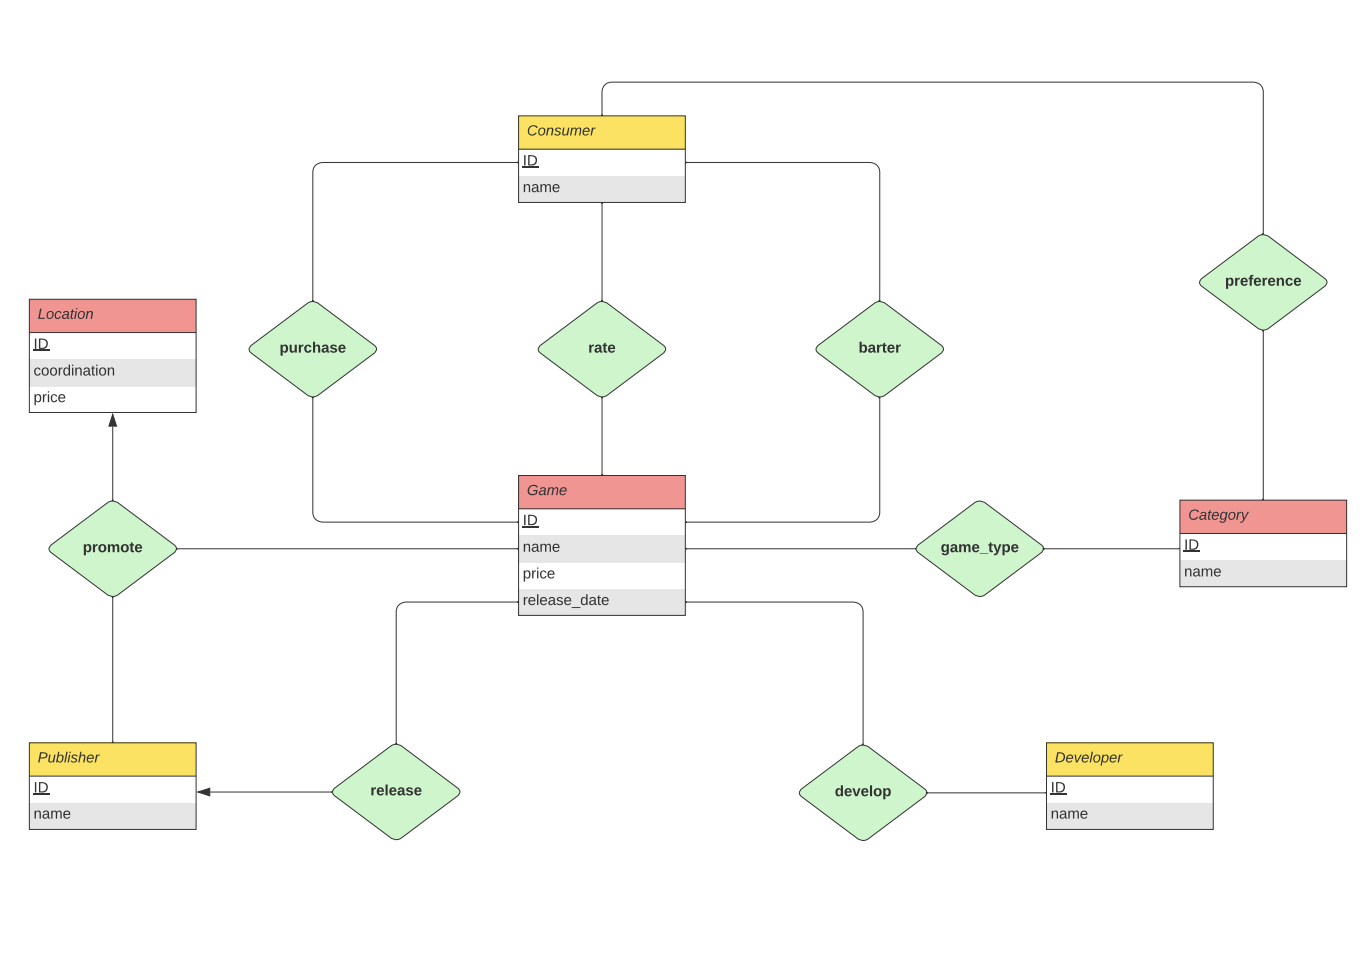
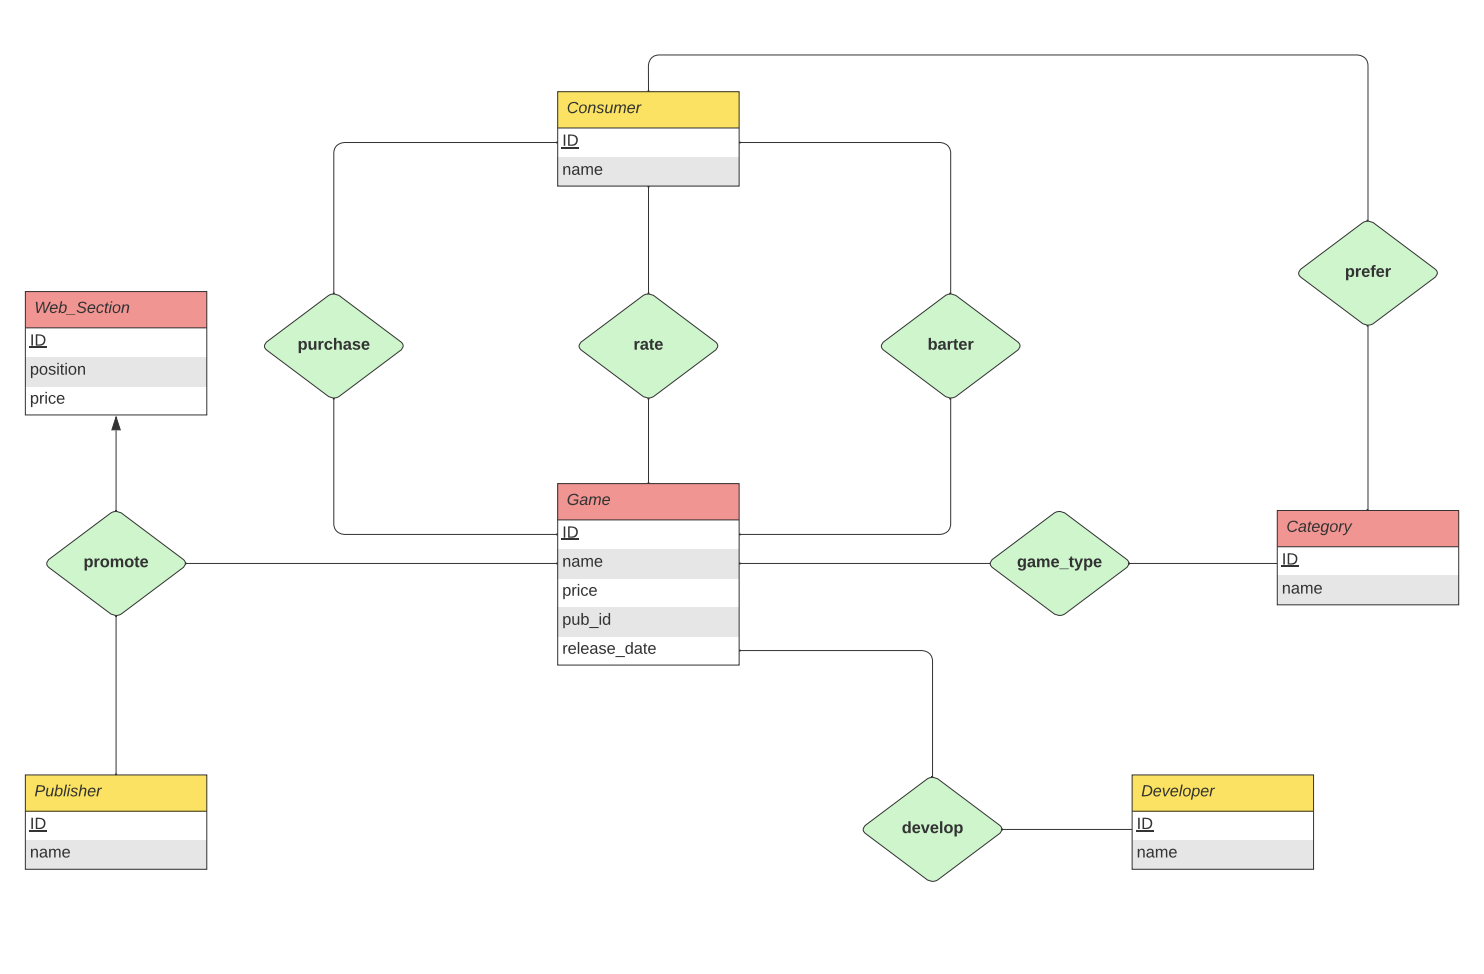
update abstract draft

diff --git a/README.md b/README.md
@@ -22,7 +22,7 @@ Our team consists of the following members, listed in the table below (the team 
 | 120090234  | 王森         | 120090234@link.cuhk.edu.cn|
 | 120090320  | 尹无非       | 120090320@link.cuhk.edu.cn|
 | 120090225  | 郑家豪         | 120090225@link.cuhk.edu.cn  |
-| 123010249  | 李子涵         | noah_822@163.com|
+| 120090188 | 李子涵         | noah_822@163.com|
 | 119010423  | 章辰舸        | 1418457284@qq.com         |
 ## Project Specification
 
@@ -56,9 +56,9 @@ $\bullet$ Backend
 
 ## Project Abstract
 
-#### Overview
+### Overview
 
-In this project, we hope to implement an advanced game distribution platform, where both the player, or say the consumer, and the saler, or say the game publisher can get involved.
+In this project, we hope to implement an advanced game distribution platform, where both the consumer, or say the player, and the saler, or say the game publisher can get involved.
 
 As a player, you can either purchase a game like you normally do on any game platform or barter for a game. Bartering is a new concept we try to introduce to our platform. One possible scenario where you may want to barter for a game is you would like to exchange a game, which you no longer want to play, for another game you interested in with somebody else.  Players can put the game to exchange and their wishlist on the platform, and then wait for others to make the deal.
 
@@ -77,6 +77,8 @@ $\vartriangleright$   **game**: table contains info of any game
       $\bullet$  name: name of the game
 
       $\bullet$  price: price of a game in US dollar
+
+      $\bullet$  pub_id: ID of the game publisher 
 
       $\bullet$  release_date: date when a game is offcially distributed, in format "DD MM YYYY"
 
@@ -120,15 +122,15 @@ $\vartriangleright$  **purchase**: table of any purchase of game a consumer ever
 
       $\bullet$ date: date the purchase was made, in format "DD MM YYYY"
 
-$\vartriangleright$  **rate**:
+$\vartriangleright$  **rate**: table of rating record of a consumer
 
-      $\bullet$  <ins>con_id</ins>
+      $\bullet$  <ins>con_id</ins>: ID of the consumer who rates the game
 
-      $\bullet$ <ins>game_id</ins>
+      $\bullet$ <ins>game_id</ins>: ID of the game rated
 
-      $\bullet$ score: 
+      $\bullet$ score: rating score, ranging from 0 to 5
 
-$\vartriangleright$  **barter**
+$\vartriangleright$  **barter**: table of game bartering records
 
       $\bullet$  <ins>con_id</ins>: ID of the consumer who wants to barter
 
@@ -136,49 +138,41 @@ $\vartriangleright$  **barter**
 
       $\bullet$ <ins>wish_id</ins>: ID of the game the consumer hopes to exchange for
 
-$\vartriangleright$  **promote**
+$\vartriangleright$  **promote**: table of the way a publisher promotes a game to sell
 
-      $\bullet$  <ins>pub_id</ins>: 
+      $\bullet$  <ins>pub_id</ins>: ID of the game publisher
 
-      $\bullet$ <ins>sec_id</ins>
+      $\bullet$  <ins>sec_id</ins>: ID of the web section, where the selling advertisment will be displayed
 
-      $\bullet$ <ins>game_id</ins>
+      $\bullet$  <ins>game_id</ins>: ID of the game to sell
 
-$\vartriangleright$  **release**
+$\vartriangleright$  **develop**: table contains info of the developer(s) of any game, a game may have multiple developer
 
-      $\bullet$  <ins>pub_id</ins>: 
+      $\bullet$  <ins>dev_id</ins>: ID of the game developer
 
-      $\bullet$ <ins>game_id</ins>
+      $\bullet$ <ins>game_id</ins>: ID of the game a developer develops
 
-      $\bullet$ date
+$\vartriangleright$  **prefer**: table of preferences for a consumer, i.e categories of games he/she prefers
 
-$\vartriangleright$  **develop**
+      $\bullet$  <ins>con_id</ins>: ID of the consumer
 
-      $\bullet$  <ins>dev_id</ins>: 
+      $\bullet$  <ins>cate_id</ins>: ID of the game category
 
-      $\bullet$ <ins>game_id</ins>
+$\vartriangleright$  **game_type**: table of the category a game belongs to, a game may associate with multiple categories
 
-$\vartriangleright$  **preference**
+      $\bullet$  <ins>game_id</ins>: ID of the game
 
-      $\bullet$  <ins>con_id</ins>: 
-
-      $\bullet$ <ins>cate_id</ins>
-
-$\vartriangleright$  **game_type**
-
-      $\bullet$  <ins>game_id</ins>: 
-
-      $\bullet$ <ins>cate_id</ins>
+      $\bullet$  <ins>cate_id</ins>: ID of the category the game belongs to
 
 
 
-#### ER Diagram
+### ER Diagram
 
 <img src="./pics/ER_diagram.png" alt="ER_diagram" style="zoom: 50%;" />
 
-#### Application Workflow
+### Application Workflow
 
-
+<img src="./pics/workflow.png" alt="workflow" style="zoom: 50%;" />
 
 
 
